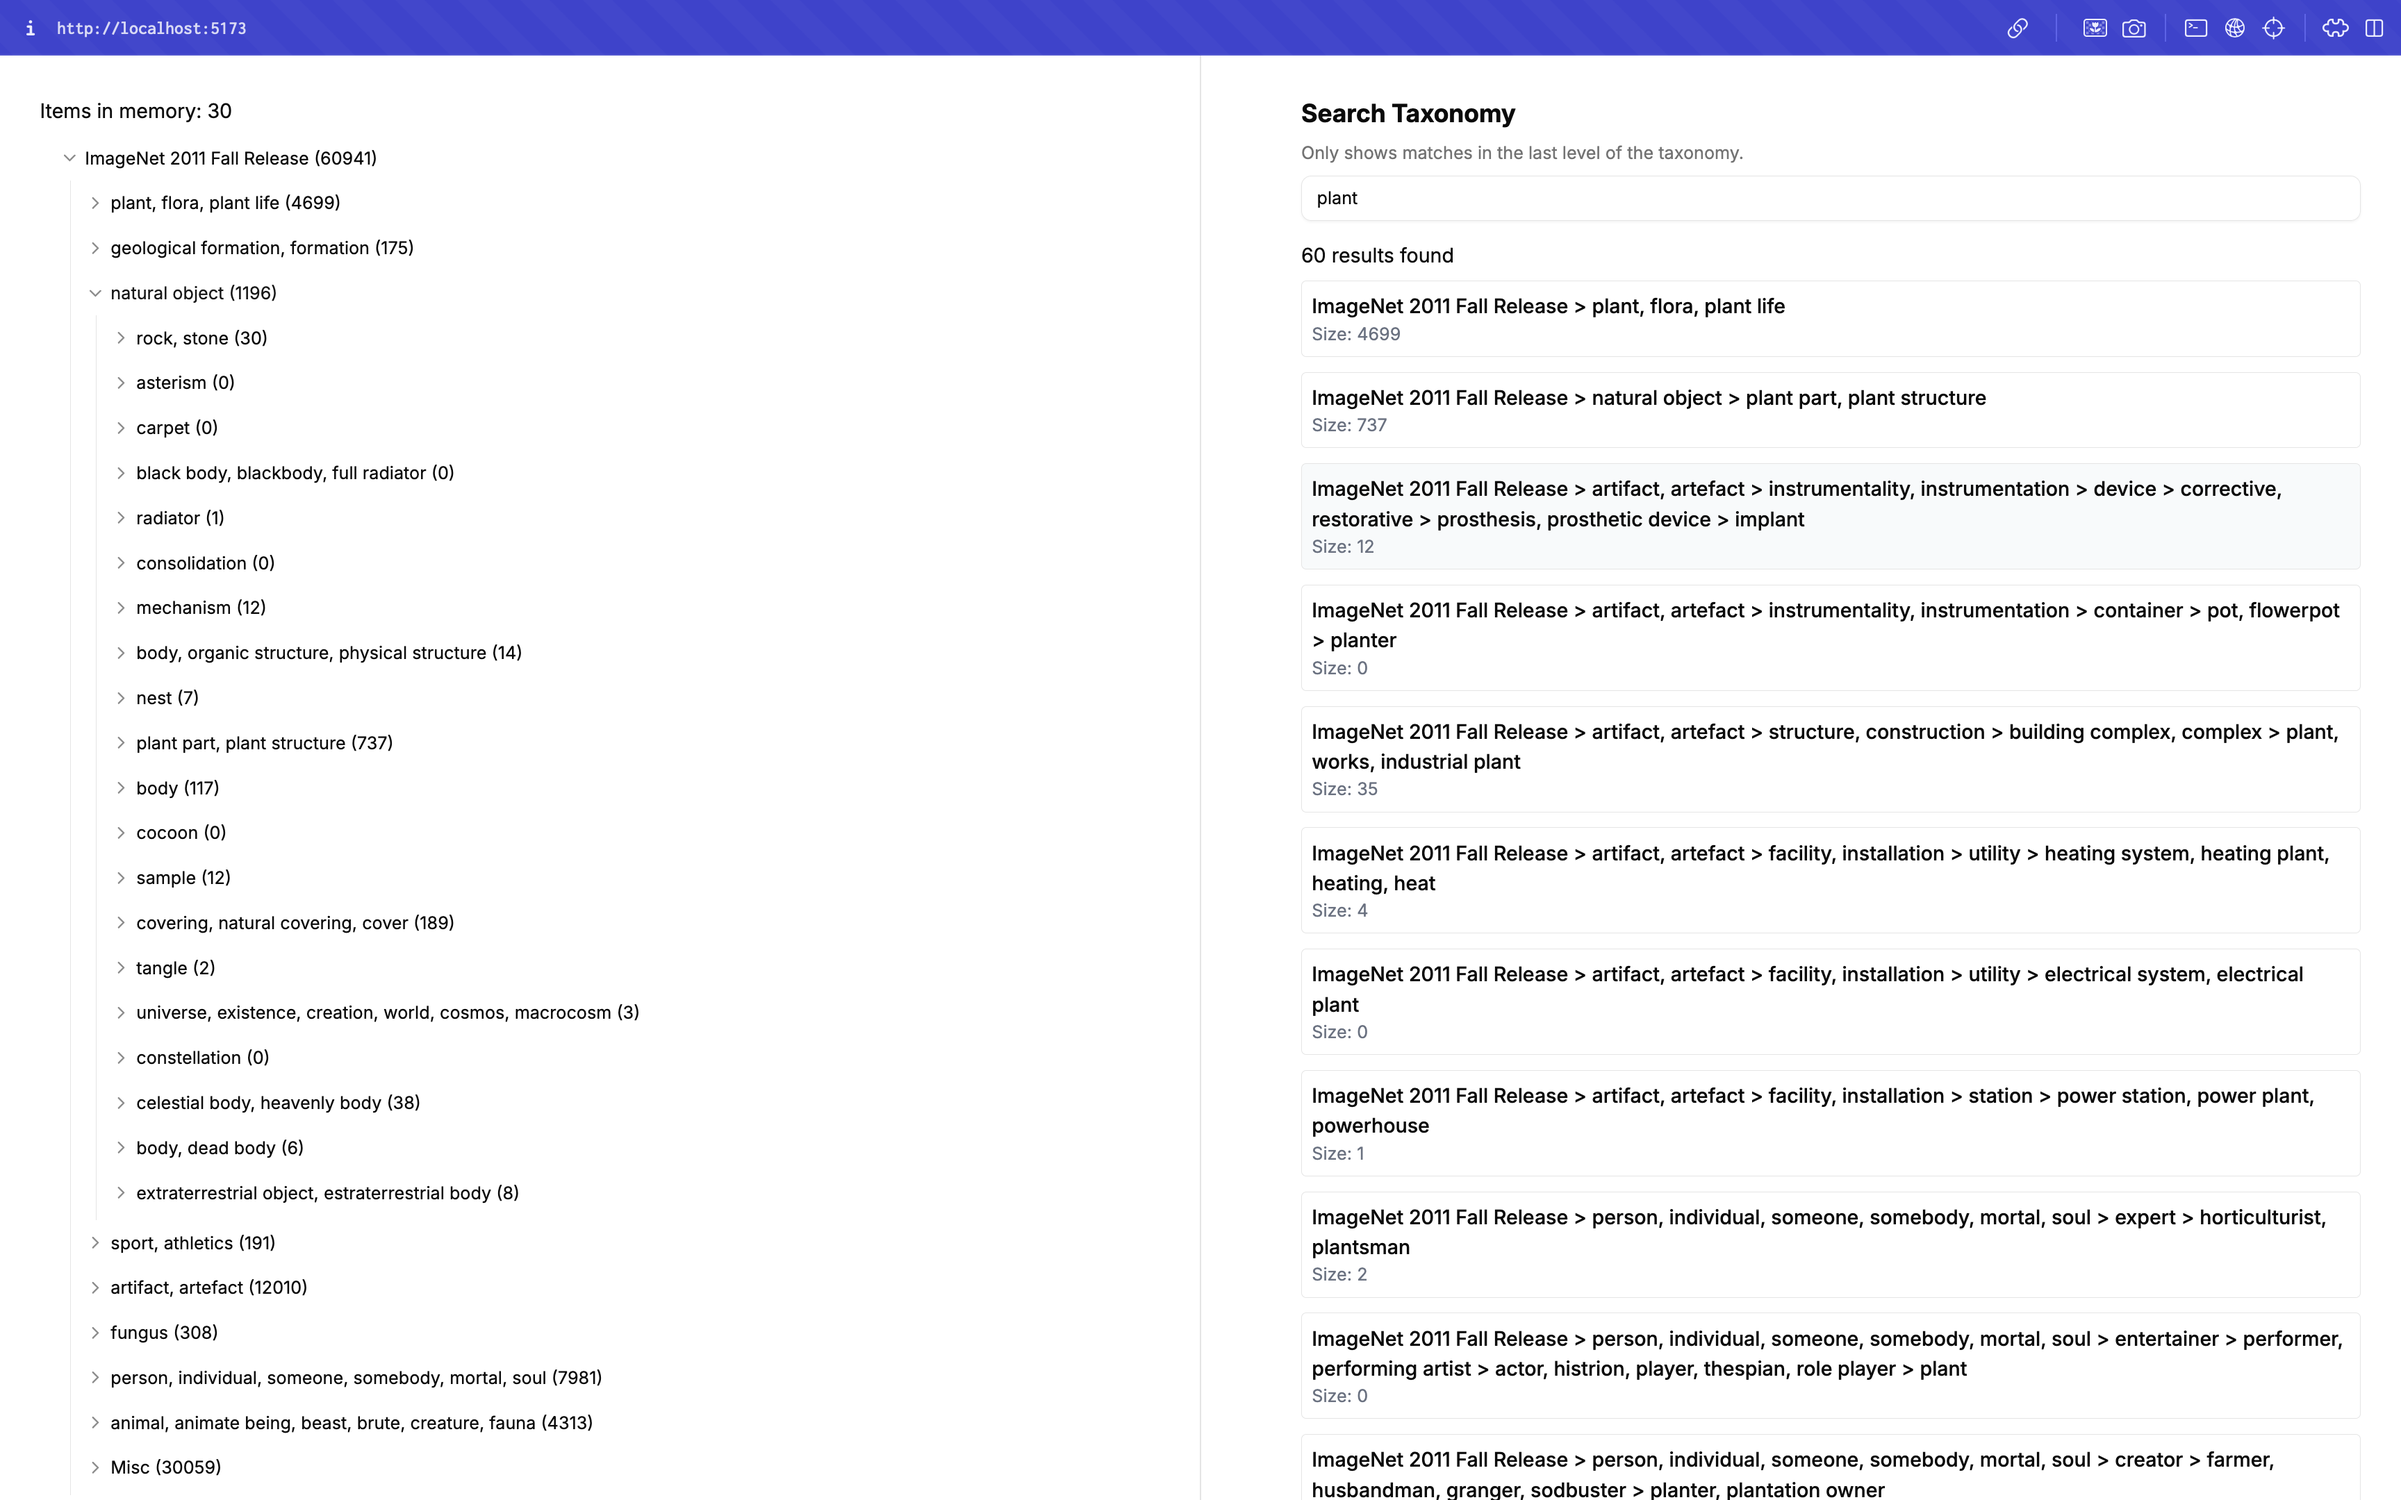
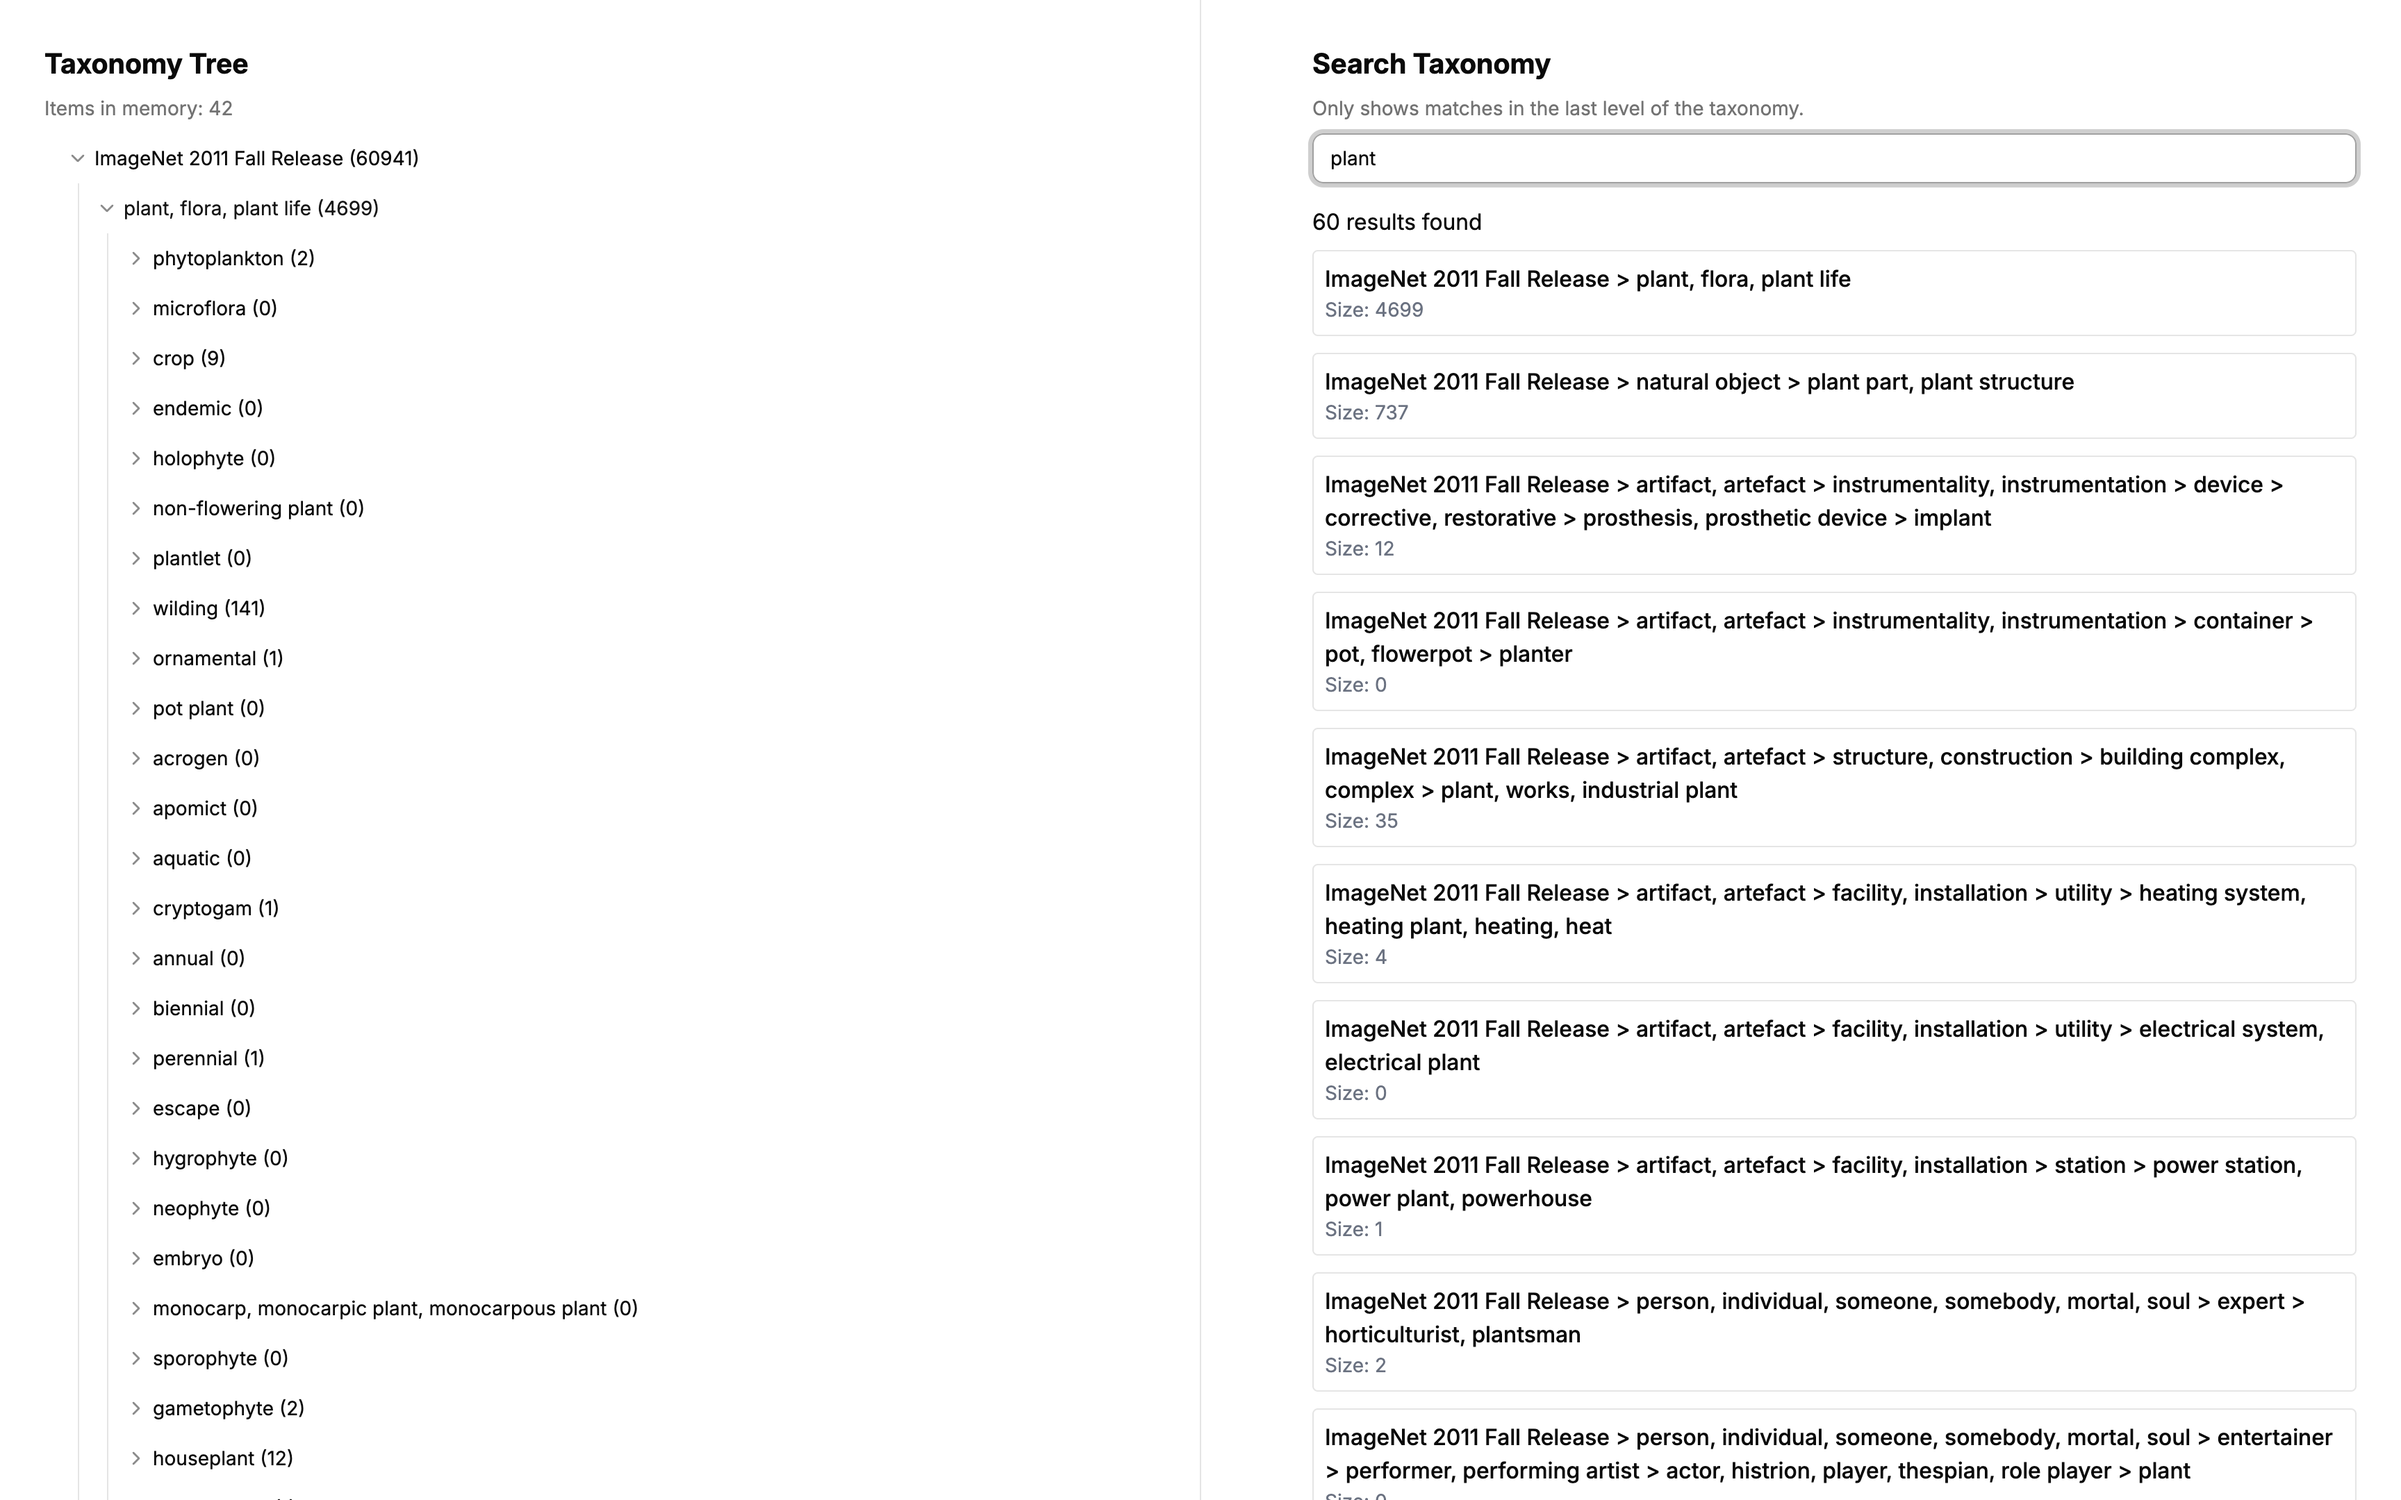
Slight UI improvement to taxonomy tree

Changed region(s): [[0.0, 0.0, 1.0, 1.0], [0.1875, 0.6514, 0.25, 0.6824], [0.1562, 0.5894, 0.1875, 0.6204]]

diff --git a/frontend/app/taxonomy/tree-view.tsx b/frontend/app/taxonomy/tree-view.tsx
@@ -75,7 +75,10 @@ export default function Taxonomy({ loaderData, className }: { loaderData: Taxono
 
   return (
     <div className={className}>
-      <h1>Items in memory: {totalItemCount}</h1>
+      <div>
+          <h2 className="text-xl font-bold mb-2">Taxonomy Tree</h2>
+          <p className="text-sm text-muted-foreground">Items in memory: {totalItemCount}</p>
+        </div>
       <TreeView data={items} onSelectChange={handleSelectChange} />
     </div>
   );
